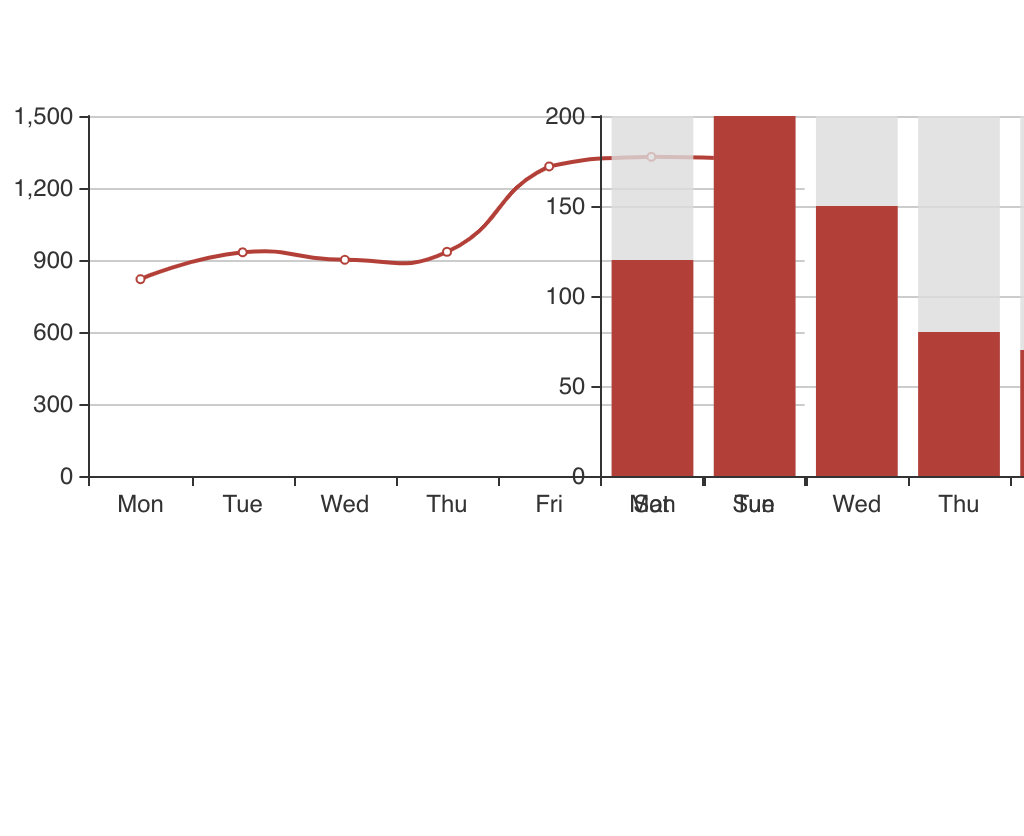
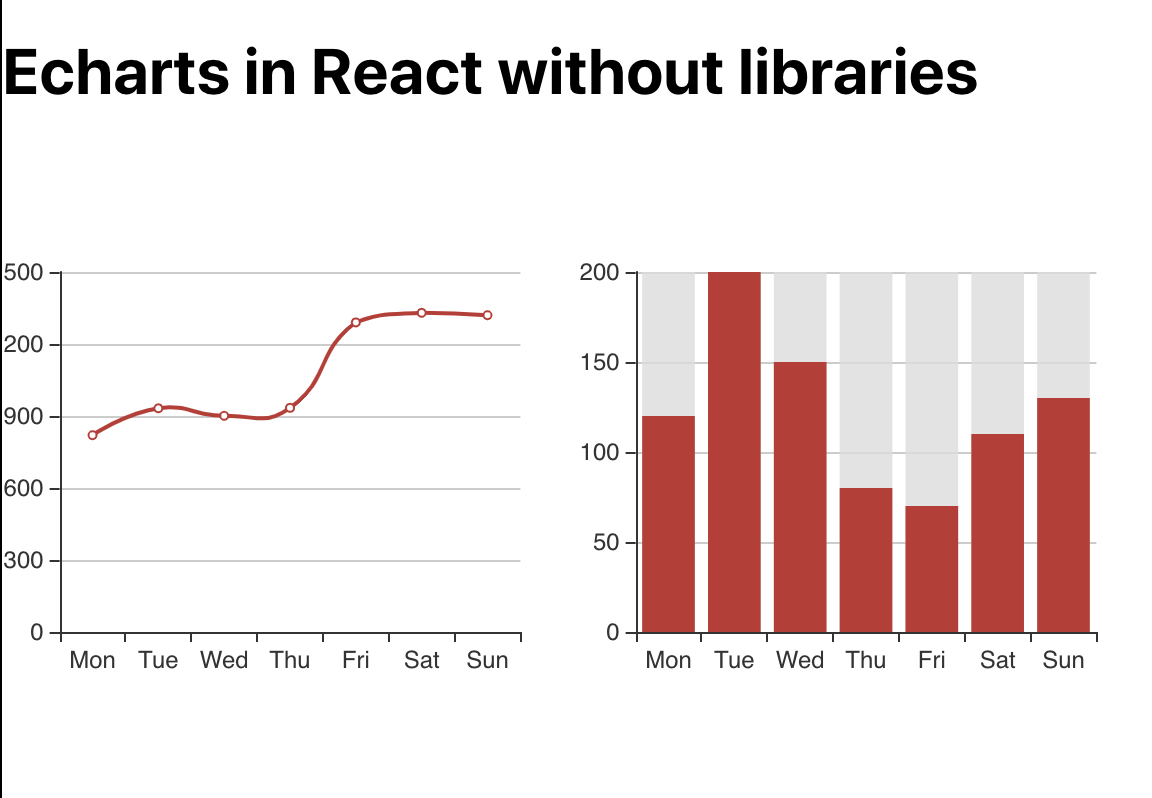
Posts

diff --git a/gatsby-config.js b/gatsby-config.js
@@ -25,6 +25,7 @@ module.exports = {
       resolve: `gatsby-transformer-remark`,
       options: {
         plugins: [
+          `gatsby-remark-emoji`,
           {
             resolve: `gatsby-remark-images`,
             options: {

diff --git a/src/markdown-pages/post-2.md b/src/markdown-pages/post-2.md
@@ -1,14 +1,102 @@
 ---
-path: "/blogs/1"
+path: "/posts/2"
 date: "2020-03-15"
-title: 'How "Has Many Through" relation works in Laravel'
-tags: ["laravel", "eloquent"]
+title: 'React echart component resizing'
+tags: ["react", "echarts"]
 lang: "en"
 ---
+#Getting started
+The starting point for this tutorial is the project we have created on
+[Using echarts with react without libraries](/posts/1).
 
-# The simplest classifier of your life
+We should have something like this
 
-```python
-def a:
-    dsadad
+![Start](../images/posts/1/ss2.png)
+
+But, what happens when window is resized and my wrappers shrinks or grows? :open_mouth:
+
+![Start](../images/posts/2/ss1.png)
+Tada! :poop:, yeah shit happens...
+
+So let's fix this behaviour
+
+I found 2 ways to do it, probably there are more, but I'll explain only this 2
+
+- 1. Using [Resize Observer API](https://developer.mozilla.org/en-US/docs/Web/API/Resize_Observer_API) a solution for modern browsers.
+- 2. Using `window.onrize` event.
+
+As I normally work for modern browsers my favorite is the first and is shorter too...
+
+### Using Resize Observer API 
+I'll create a new file for the observer at `utils/resizeObserver.js`
+```javascript
+import echarts from "echarts";
+export default new ResizeObserver((entries) => {
+  entries.map(({ target }) => {
+    const instance = echarts.getInstanceByDom(target);
+    if (instance) {
+      instance.resize();
+    }
+  });
+});
+```  
+This file will return a `ResizeObserver` that will catch all resize events of the DOM Element registered to be observed by it.
+
+Inside the observer we receive the `entries` argument which are the list of observed DOM Elements that are being resized.
+
+Also I'm using `echarts.getInstanceByDom` to use the target element to get the current echart instance and resize the chart corresponding to the resized element. 
+
+Let's import react observer in our `App` Component and send it as property to our charts, so we use same observer for both. 
+ ```javascript
+import React from "react";
+import Chart from "./Chart";
+import line from "./charts/line";
+import bars from "./charts/bars";
+import resizeObserver from "./utils/resizeObserver";
+import "./App.css";
+function App() {
+  return (
+    <>
+      <h1>Echarts in React without libraries</h1>
+      <div className="App" style={{ display: "flex", flexDirection: "row" }}>
+        <div style={{ width: "50%", height: 300 }}>
+          <Chart options={line} resizeObserver={resizeObserver} />
+        </div>
+        <div style={{ width: "50%", height: 300 }}>
+          <Chart options={bars} resizeObserver={resizeObserver} />
+        </div>
+      </div>
+    </>
+  );
+}
+
+export default App;
+
 ```
+Then there's only one more thing to do, register our DOM Elements to the `Resize Observer`.
+
+```javascript
+import React, { useRef, useEffect } from "react";
+import PropTypes from "prop-types";
+import echarts from "echarts";
+
+function Chart({ options, resizeObserver }) {
+ ....
+  useEffect(() => {
+    const chart = echarts.init(myChart.current);
+    chart.setOption(options);
+    if (resizeObserver) resizeObserver.observe(myChart.current);
+  }, [options, resizeObserver]);
+....
+
+Chart.propTypes = {
+  options: PropTypes.any,
+  resizeObserver: PropTypes.oneOfType([PropTypes.func, PropTypes.object]),
+};
+
+export default Chart;
+
+```
+We only need to add the property `resizeObserver` and then use it to register the DOM Element inside `UseEffect` Hook.
+
+And now we have resizable charts :wink:

diff --git a/src/markdown-pages/post-1.md b/src/markdown-pages/post-1.md
@@ -86,14 +86,15 @@ I'll put this options as property so we can create multiple charts based on this
 
 ```javascript
 import React, { useRef, useEffect } from "react";
+import PropTypes from "prop-types";
 import echarts from "echarts";
 
-export default function Chart({ options }) {
+function Chart({ options }) {
   const myChart = useRef(null);
   useEffect(() => {
     const chart = echarts.init(myChart.current);
     chart.setOption(options);
-  }, [options]);
+  }, [options, resizeObserver]);
 
   return (
     <div
@@ -105,6 +106,13 @@ export default function Chart({ options }) {
     ></div>
   );
 }
+
+Chart.propTypes = {
+  options: PropTypes.any,
+};
+
+export default Chart;
+
 ```
 Well now we can call our component like this.
 
@@ -208,9 +216,14 @@ function App() {
 export default App;
 
 ```
+![SS2](../images/posts/1/ss2.png)
 
-In the next tutorial we'll learn how to make this charts responsive :wink:
+There you go! Now it looks much better!
 
+
+In the next tutorial we'll learn how to make this charts to respond to resizing :rocket:
+
+[React echart component resizing](/posts/2).
 
 
 
